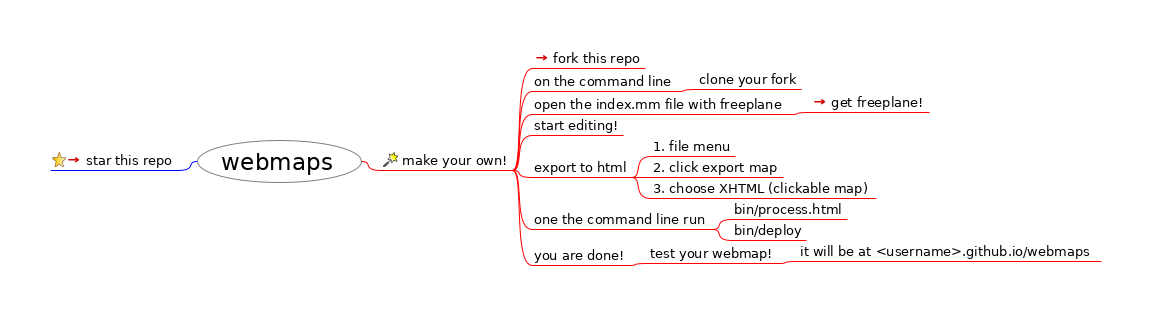
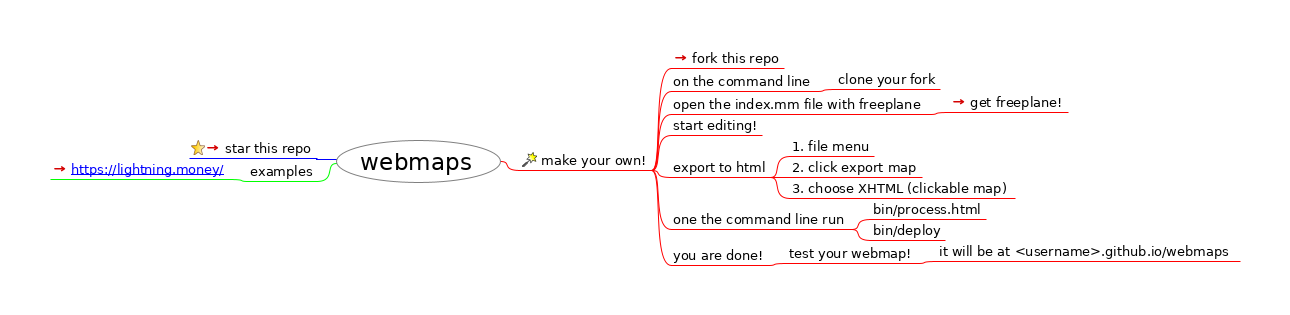
DEFAULT_MESSAGE

Changed region(s): [[0.0304, 0.1714, 0.821, 0.6571], [0.4561, 0.6571, 0.9731, 0.8571], [0.4257, 0.6571, 0.4561, 0.6857]]

diff --git a/index.html b/index.html
@@ -23,26 +23,30 @@
                    };
                };
           
-          --></script></head><body><h1>webmaps</h1><div style="width:96%;  padding:2%;  margin-bottom:10px;  border: 0px;  text-align:center;  vertical-align:center;"><img src="index.html_files/image.png" style="margin-bottom:10px; &#9;border: 0px; &#9;text-align:center; &#9;vertical-align:center;" alt="Imagemap" usemap="#fm_imagemap" /></div><map name="fm_imagemap" id="fm_imagemap"><area shape="rect" href="#FMID_110073400FM" alt="webmaps" title="webmaps" coords="197,140,362,183" />
-<area shape="rect" href="#FMID_1389208206FM" alt="make your own!" title="make your own!" coords="381,152,513,170" />
-<area shape="rect" href="#FMID_1738668143FM" alt="fork this repo" title="fork this repo" coords="532,50,645,68" />
-<area shape="rect" href="#FMID_1188995541FM" alt="on the command line" title="on the command line" coords="532,73,678,91" />
-<area shape="rect" href="#FMID_653799488FM" alt="clone your fork" title="clone your fork" coords="697,71,801,89" />
-<area shape="rect" href="#FMID_1013629200FM" alt="open the index.mm file with freeplane" title="open the index.mm file with freeplane" coords="532,96,791,114" />
-<area shape="rect" href="#FMID_1320208052FM" alt="get freeplane!" title="get freeplane!" coords="810,94,929,112" />
-<area shape="rect" href="#FMID_1410176299FM" alt="start editing!" title="start editing!" coords="532,117,623,135" />
-<area shape="rect" href="#FMID_278465196FM" alt="export to html" title="export to html" coords="532,159,632,177" />
-<area shape="rect" href="#FMID_347519982FM" alt="1. file menu" title="1. file menu" coords="651,138,735,156" />
-<area shape="rect" href="#FMID_1364431254FM" alt="2. click export map" title="2. click export map" coords="651,159,783,177" />
-<area shape="rect" href="#FMID_65834416FM" alt="3. choose XHTML (clickable map)" title="3. choose XHTML (clickable map)" coords="651,180,876,198" />
-<area shape="rect" href="#FMID_668125997FM" alt="one the command line run" title="one the command line run" coords="532,211,713,229" />
-<area shape="rect" href="#FMID_417353516FM" alt="bin/process.html" title="bin/process.html" coords="732,201,847,219" />
-<area shape="rect" href="#FMID_1316516546FM" alt="bin/deploy" title="bin/deploy" coords="732,222,806,240" />
-<area shape="rect" href="#FMID_1463249056FM" alt="you are done!" title="you are done!" coords="532,247,629,265" />
-<area shape="rect" href="#FMID_1342426050FM" alt="test your webmap!" title="test your webmap!" coords="648,245,779,263" />
-<area shape="rect" href="#FMID_791049591FM" alt="it will be at &lt;username&gt;.github.io/webma ..." title="it will be at &lt;username&gt;.github.io/webma ..." coords="798,243,1101,261" />
-<area shape="rect" href="#FMID_634574866FM" alt="star this repo" title="star this repo" coords="50,152,178,170" />
+          --></script></head><body><h1>webmaps</h1><div style="width:96%;  padding:2%;  margin-bottom:10px;  border: 0px;  text-align:center;  vertical-align:center;"><img src="index.html_files/image.png" style="margin-bottom:10px; &#9;border: 0px; &#9;text-align:center; &#9;vertical-align:center;" alt="Imagemap" usemap="#fm_imagemap" /></div><map name="fm_imagemap" id="fm_imagemap"><area shape="rect" href="#FMID_110073400FM" alt="webmaps" title="webmaps" coords="336,140,501,183" />
+<area shape="rect" href="#FMID_1389208206FM" alt="make your own!" title="make your own!" coords="520,152,652,170" />
+<area shape="rect" href="#FMID_1738668143FM" alt="fork this repo" title="fork this repo" coords="671,50,784,68" />
+<area shape="rect" href="#FMID_1188995541FM" alt="on the command line" title="on the command line" coords="671,73,817,91" />
+<area shape="rect" href="#FMID_653799488FM" alt="clone your fork" title="clone your fork" coords="836,71,940,89" />
+<area shape="rect" href="#FMID_1013629200FM" alt="open the index.mm file with freeplane" title="open the index.mm file with freeplane" coords="671,96,930,114" />
+<area shape="rect" href="#FMID_1320208052FM" alt="get freeplane!" title="get freeplane!" coords="949,94,1068,112" />
+<area shape="rect" href="#FMID_1410176299FM" alt="start editing!" title="start editing!" coords="671,117,762,135" />
+<area shape="rect" href="#FMID_278465196FM" alt="export to html" title="export to html" coords="671,159,771,177" />
+<area shape="rect" href="#FMID_347519982FM" alt="1. file menu" title="1. file menu" coords="790,138,874,156" />
+<area shape="rect" href="#FMID_1364431254FM" alt="2. click export map" title="2. click export map" coords="790,159,922,177" />
+<area shape="rect" href="#FMID_65834416FM" alt="3. choose XHTML (clickable map)" title="3. choose XHTML (clickable map)" coords="790,180,1015,198" />
+<area shape="rect" href="#FMID_668125997FM" alt="one the command line run" title="one the command line run" coords="671,211,852,229" />
+<area shape="rect" href="#FMID_417353516FM" alt="bin/process.html" title="bin/process.html" coords="871,201,986,219" />
+<area shape="rect" href="#FMID_1316516546FM" alt="bin/deploy" title="bin/deploy" coords="871,222,945,240" />
+<area shape="rect" href="#FMID_1463249056FM" alt="you are done!" title="you are done!" coords="671,247,768,265" />
+<area shape="rect" href="#FMID_1342426050FM" alt="test your webmap!" title="test your webmap!" coords="787,245,918,263" />
+<area shape="rect" href="#FMID_791049591FM" alt="it will be at &lt;username&gt;.github.io/webma ..." title="it will be at &lt;username&gt;.github.io/webma ..." coords="937,243,1240,261" />
+<area shape="rect" href="#FMID_634574866FM" alt="star this repo" title="star this repo" coords="189,140,317,158" />
+<area shape="rect" href="#FMID_428021122FM" alt="examples" title="examples" coords="248,163,317,181" />
+<area shape="rect" href="#FMID_1055482545FM" alt="https://lightning.money/ " title="https://lightning.money/ " coords="50,161,229,179" />
 </map>
 
-<div class="node"><img src="index.html_files/hide.png" class="hideshow" alt="hide" onClick="toggle(&quot;N65543&quot;)" id="imgN65543" /><a id="FMID_110073400FM" /><div class="nodecontent" style="color:#000000;font-size:150%;">webmaps</div><div class="content" id="N65543"><div class="node"><img src="index.html_files/hide.png" class="hideshow" alt="hide" onClick="toggle(&quot;N66439&quot;)" id="imgN66439" /><img src="index.html_files/icons/wizard.svg" alt="wizard" /> <a id="FMID_1389208206FM" /><div class="nodecontent" style="color:#000000;font-size:83%;">make your own!</div><div class="content" id="N66439"><div class="node"><img src="index.html_files/leaf.png" class="hideshow" alt="leaf" /><a id="FMID_1738668143FM" /><div class="nodecontent" style="color:#000000;font-size:83%;"><a href="https://github.com/solidpayorg/webmaps/">fork this repo</a> <a href="https://github.com/solidpayorg/webmaps/"><img src="index.html_files/ilink.png" alt="User Link" style="border-width:0" /></a></div></div><div class="node"><img src="index.html_files/hide.png" class="hideshow" alt="hide" onClick="toggle(&quot;N66517&quot;)" id="imgN66517" /><a id="FMID_1188995541FM" /><div class="nodecontent" style="color:#000000;font-size:83%;">on the command line</div><div class="content" id="N66517"><div class="node"><img src="index.html_files/leaf.png" class="hideshow" alt="leaf" /><a id="FMID_653799488FM" /><div class="nodecontent" style="color:#000000;font-size:83%;">clone your fork</div></div></div></div><div class="node"><img src="index.html_files/hide.png" class="hideshow" alt="hide" onClick="toggle(&quot;N66589&quot;)" id="imgN66589" /><a id="FMID_1013629200FM" /><div class="nodecontent" style="color:#000000;font-size:83%;">open the index.mm file with freeplane</div><div class="content" id="N66589"><div class="node"><img src="index.html_files/leaf.png" class="hideshow" alt="leaf" /><a id="FMID_1320208052FM" /><div class="nodecontent" style="color:#000000;font-size:83%;"><a href="https://www.freeplane.org/wiki/index.php/Home">get freeplane!</a> <a href="https://www.freeplane.org/wiki/index.php/Home"><img src="index.html_files/ilink.png" alt="User Link" style="border-width:0" /></a></div></div></div></div><div class="node"><img src="index.html_files/leaf.png" class="hideshow" alt="leaf" /><a id="FMID_1410176299FM" /><div class="nodecontent" style="color:#000000;font-size:83%;">start editing!</div></div><div class="node"><img src="index.html_files/hide.png" class="hideshow" alt="hide" onClick="toggle(&quot;N66698&quot;)" id="imgN66698" /><a id="FMID_278465196FM" /><div class="nodecontent" style="color:#000000;font-size:83%;">export to html</div><div class="content" id="N66698"><div class="node"><img src="index.html_files/leaf.png" class="hideshow" alt="leaf" /><a id="FMID_347519982FM" /><div class="nodecontent" style="color:#000000;font-size:83%;">1. file menu</div></div><div class="node"><img src="index.html_files/leaf.png" class="hideshow" alt="leaf" /><a id="FMID_1364431254FM" /><div class="nodecontent" style="color:#000000;font-size:83%;">2. click export map</div></div><div class="node"><img src="index.html_files/leaf.png" class="hideshow" alt="leaf" /><a id="FMID_65834416FM" /><div class="nodecontent" style="color:#000000;font-size:83%;">3. choose XHTML (clickable map)</div></div></div></div><div class="node"><img src="index.html_files/hide.png" class="hideshow" alt="hide" onClick="toggle(&quot;N66842&quot;)" id="imgN66842" /><a id="FMID_668125997FM" /><div class="nodecontent" style="color:#000000;font-size:83%;">one the command line run</div><div class="content" id="N66842"><div class="node"><img src="index.html_files/leaf.png" class="hideshow" alt="leaf" /><a id="FMID_417353516FM" /><div class="nodecontent" style="color:#000000;font-size:83%;">bin/process.html</div></div><div class="node"><img src="index.html_files/leaf.png" class="hideshow" alt="leaf" /><a id="FMID_1316516546FM" /><div class="nodecontent" style="color:#000000;font-size:83%;">bin/deploy</div></div></div></div><div class="node"><img src="index.html_files/hide.png" class="hideshow" alt="hide" onClick="toggle(&quot;N66950&quot;)" id="imgN66950" /><a id="FMID_1463249056FM" /><div class="nodecontent" style="color:#000000;font-size:83%;">you are done!</div><div class="content" id="N66950"><div class="node"><img src="index.html_files/hide.png" class="hideshow" alt="hide" onClick="toggle(&quot;N66985&quot;)" id="imgN66985" /><a id="FMID_1342426050FM" /><div class="nodecontent" style="color:#000000;font-size:83%;">test your webmap!</div><div class="content" id="N66985"><div class="node"><img src="index.html_files/leaf.png" class="hideshow" alt="leaf" /><a id="FMID_791049591FM" /><div class="nodecontent" style="color:#000000;font-size:83%;">it will be at &lt;username&gt;.github.io/webmaps</div></div></div></div></div></div></div></div><div class="node"><img src="index.html_files/leaf.png" class="hideshow" alt="leaf" /><img src="index.html_files/icons/bookmark.svg" alt="bookmark" /> <a id="FMID_634574866FM" /><div class="nodecontent" style="color:#000000;font-size:83%;"><a href="https://github.com/solidpayorg/webmaps/">star this repo</a> <a href="https://github.com/solidpayorg/webmaps/"><img src="index.html_files/ilink.png" alt="User Link" style="border-width:0" /></a></div></div></div></div>
+<div class="node"><img src="index.html_files/hide.png" class="hideshow" alt="hide" onClick="toggle(&quot;N65543&quot;)" id="imgN65543" /><a id="FMID_110073400FM" /><div class="nodecontent" style="color:#000000;font-size:150%;">webmaps</div><div class="content" id="N65543"><div class="node"><img src="index.html_files/hide.png" class="hideshow" alt="hide" onClick="toggle(&quot;N66439&quot;)" id="imgN66439" /><img src="index.html_files/icons/wizard.svg" alt="wizard" /> <a id="FMID_1389208206FM" /><div class="nodecontent" style="color:#000000;font-size:83%;">make your own!</div><div class="content" id="N66439"><div class="node"><img src="index.html_files/leaf.png" class="hideshow" alt="leaf" /><a id="FMID_1738668143FM" /><div class="nodecontent" style="color:#000000;font-size:83%;"><a href="https://github.com/solidpayorg/webmaps/">fork this repo</a> <a href="https://github.com/solidpayorg/webmaps/"><img src="index.html_files/ilink.png" alt="User Link" style="border-width:0" /></a></div></div><div class="node"><img src="index.html_files/hide.png" class="hideshow" alt="hide" onClick="toggle(&quot;N66517&quot;)" id="imgN66517" /><a id="FMID_1188995541FM" /><div class="nodecontent" style="color:#000000;font-size:83%;">on the command line</div><div class="content" id="N66517"><div class="node"><img src="index.html_files/leaf.png" class="hideshow" alt="leaf" /><a id="FMID_653799488FM" /><div class="nodecontent" style="color:#000000;font-size:83%;">clone your fork</div></div></div></div><div class="node"><img src="index.html_files/hide.png" class="hideshow" alt="hide" onClick="toggle(&quot;N66589&quot;)" id="imgN66589" /><a id="FMID_1013629200FM" /><div class="nodecontent" style="color:#000000;font-size:83%;">open the index.mm file with freeplane</div><div class="content" id="N66589"><div class="node"><img src="index.html_files/leaf.png" class="hideshow" alt="leaf" /><a id="FMID_1320208052FM" /><div class="nodecontent" style="color:#000000;font-size:83%;"><a href="https://www.freeplane.org/wiki/index.php/Home">get freeplane!</a> <a href="https://www.freeplane.org/wiki/index.php/Home"><img src="index.html_files/ilink.png" alt="User Link" style="border-width:0" /></a></div></div></div></div><div class="node"><img src="index.html_files/leaf.png" class="hideshow" alt="leaf" /><a id="FMID_1410176299FM" /><div class="nodecontent" style="color:#000000;font-size:83%;">start editing!</div></div><div class="node"><img src="index.html_files/hide.png" class="hideshow" alt="hide" onClick="toggle(&quot;N66698&quot;)" id="imgN66698" /><a id="FMID_278465196FM" /><div class="nodecontent" style="color:#000000;font-size:83%;">export to html</div><div class="content" id="N66698"><div class="node"><img src="index.html_files/leaf.png" class="hideshow" alt="leaf" /><a id="FMID_347519982FM" /><div class="nodecontent" style="color:#000000;font-size:83%;">1. file menu</div></div><div class="node"><img src="index.html_files/leaf.png" class="hideshow" alt="leaf" /><a id="FMID_1364431254FM" /><div class="nodecontent" style="color:#000000;font-size:83%;">2. click export map</div></div><div class="node"><img src="index.html_files/leaf.png" class="hideshow" alt="leaf" /><a id="FMID_65834416FM" /><div class="nodecontent" style="color:#000000;font-size:83%;">3. choose XHTML (clickable map)</div></div></div></div><div class="node"><img src="index.html_files/hide.png" class="hideshow" alt="hide" onClick="toggle(&quot;N66842&quot;)" id="imgN66842" /><a id="FMID_668125997FM" /><div class="nodecontent" style="color:#000000;font-size:83%;">one the command line run</div><div class="content" id="N66842"><div class="node"><img src="index.html_files/leaf.png" class="hideshow" alt="leaf" /><a id="FMID_417353516FM" /><div class="nodecontent" style="color:#000000;font-size:83%;">bin/process.html</div></div><div class="node"><img src="index.html_files/leaf.png" class="hideshow" alt="leaf" /><a id="FMID_1316516546FM" /><div class="nodecontent" style="color:#000000;font-size:83%;">bin/deploy</div></div></div></div><div class="node"><img src="index.html_files/hide.png" class="hideshow" alt="hide" onClick="toggle(&quot;N66950&quot;)" id="imgN66950" /><a id="FMID_1463249056FM" /><div class="nodecontent" style="color:#000000;font-size:83%;">you are done!</div><div class="content" id="N66950"><div class="node"><img src="index.html_files/hide.png" class="hideshow" alt="hide" onClick="toggle(&quot;N66985&quot;)" id="imgN66985" /><a id="FMID_1342426050FM" /><div class="nodecontent" style="color:#000000;font-size:83%;">test your webmap!</div><div class="content" id="N66985"><div class="node"><img src="index.html_files/leaf.png" class="hideshow" alt="leaf" /><a id="FMID_791049591FM" /><div class="nodecontent" style="color:#000000;font-size:83%;">it will be at &lt;username&gt;.github.io/webmaps</div></div></div></div></div></div></div></div><div class="node"><img src="index.html_files/leaf.png" class="hideshow" alt="leaf" /><img src="index.html_files/icons/bookmark.svg" alt="bookmark" /> <a id="FMID_634574866FM" /><div class="nodecontent" style="color:#000000;font-size:83%;"><a href="https://github.com/solidpayorg/webmaps/">star this repo</a> <a href="https://github.com/solidpayorg/webmaps/"><img src="index.html_files/ilink.png" alt="User Link" style="border-width:0" /></a></div></div><div class="node"><img src="index.html_files/hide.png" class="hideshow" alt="hide" onClick="toggle(&quot;N67102&quot;)" id="imgN67102" /><a id="FMID_428021122FM" /><div class="nodecontent" style="color:#000000;font-size:83%;">examples</div><div class="content" id="N67102"><div class="node"><img src="index.html_files/leaf.png" class="hideshow" alt="leaf" /><a id="FMID_1055482545FM" /><div class="nodecontent" style="color:#000000;font-size:83%;"><a href="https://lightning.money/">
+    <a http-equiv="content-type" content="text/html; charset=utf-8" href="https://lightning.money/">https://lightning.money/</a> 
+  </a> <a href="https://lightning.money/"><img src="index.html_files/ilink.png" alt="User Link" style="border-width:0" /></a></div></div></div></div></div></div>
 </body></html>

diff --git a/index.mm b/index.mm
@@ -63,7 +63,7 @@
 </stylenode>
 </map_styles>
 </hook>
-<hook NAME="AutomaticEdgeColor" COUNTER="2" RULE="ON_BRANCH_CREATION"/>
+<hook NAME="AutomaticEdgeColor" COUNTER="3" RULE="ON_BRANCH_CREATION"/>
 <node TEXT="make your own!" POSITION="right" ID="ID_1389208206" CREATED="1570293607657" MODIFIED="1570294749709">
 <icon BUILTIN="wizard"/>
 <edge COLOR="#ff0000"/>
@@ -93,6 +93,22 @@
 <node TEXT="star this repo" POSITION="left" ID="ID_634574866" CREATED="1570294548787" MODIFIED="1570294809542" LINK="https://github.com/solidpayorg/webmaps/">
 <icon BUILTIN="bookmark"/>
 <edge COLOR="#0000ff"/>
+</node>
+<node TEXT="examples" POSITION="left" ID="ID_428021122" CREATED="1570295118138" MODIFIED="1570295119666">
+<edge COLOR="#00ff00"/>
+<node ID="ID_1055482545" CREATED="1570295130322" MODIFIED="1570295130322" LINK="https://lightning.money/"><richcontent TYPE="NODE">
+
+<html>
+  <head>
+    
+  </head>
+  <body>
+    <a http-equiv="content-type" content="text/html; charset=utf-8" href="https://lightning.money/">https://lightning.money/</a> 
+  </body>
+</html>
+
+</richcontent>
+</node>
 </node>
 </node>
 </map>
